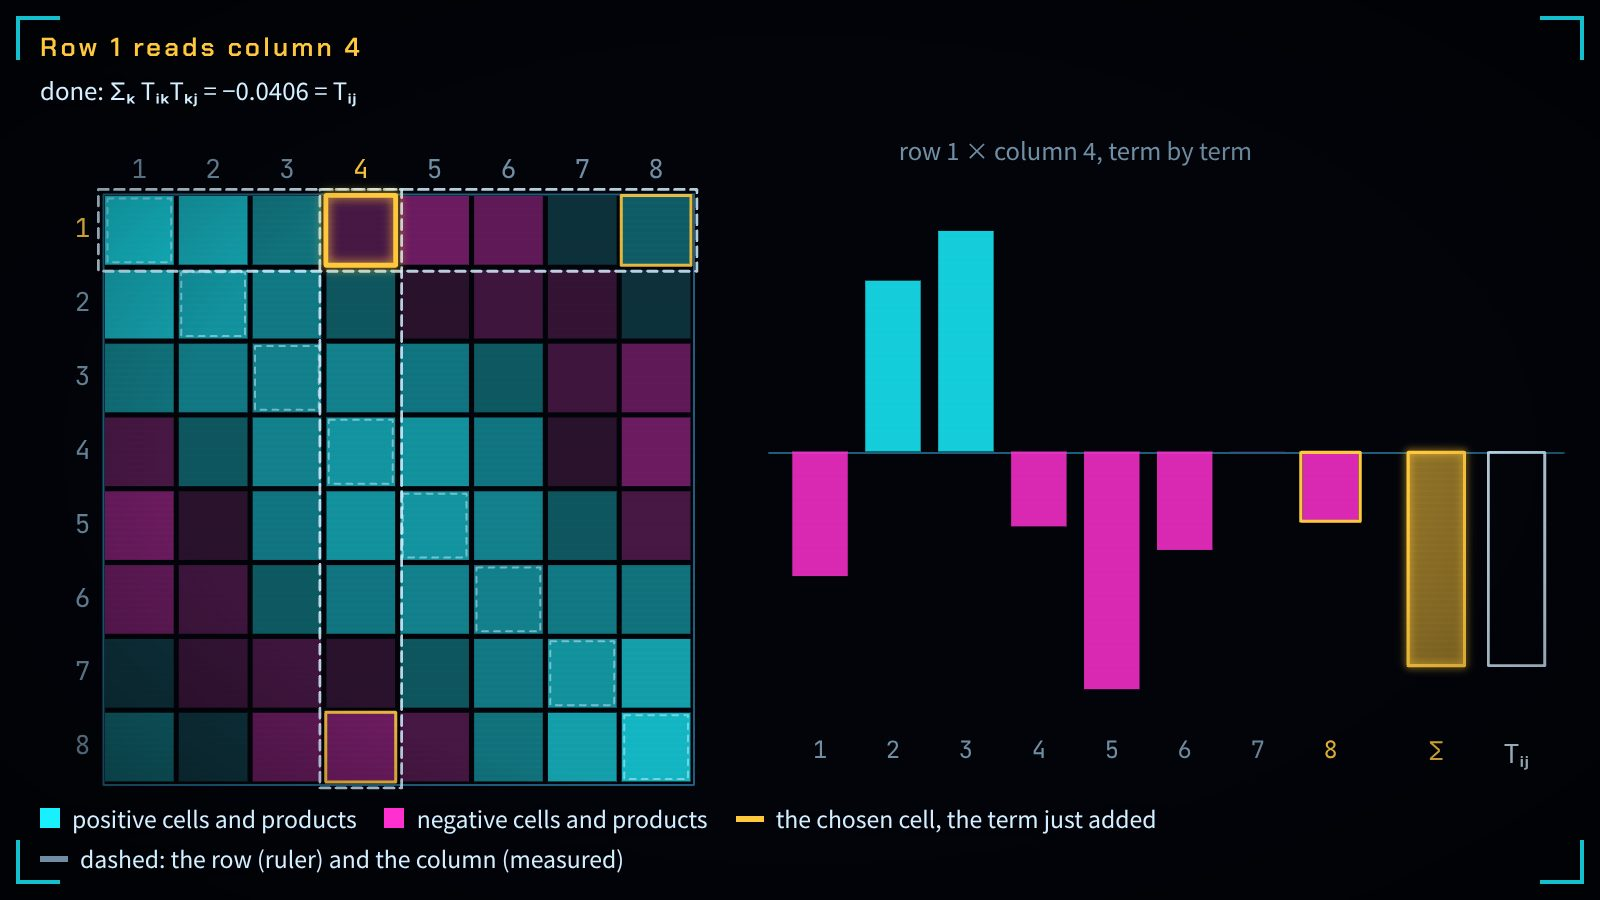
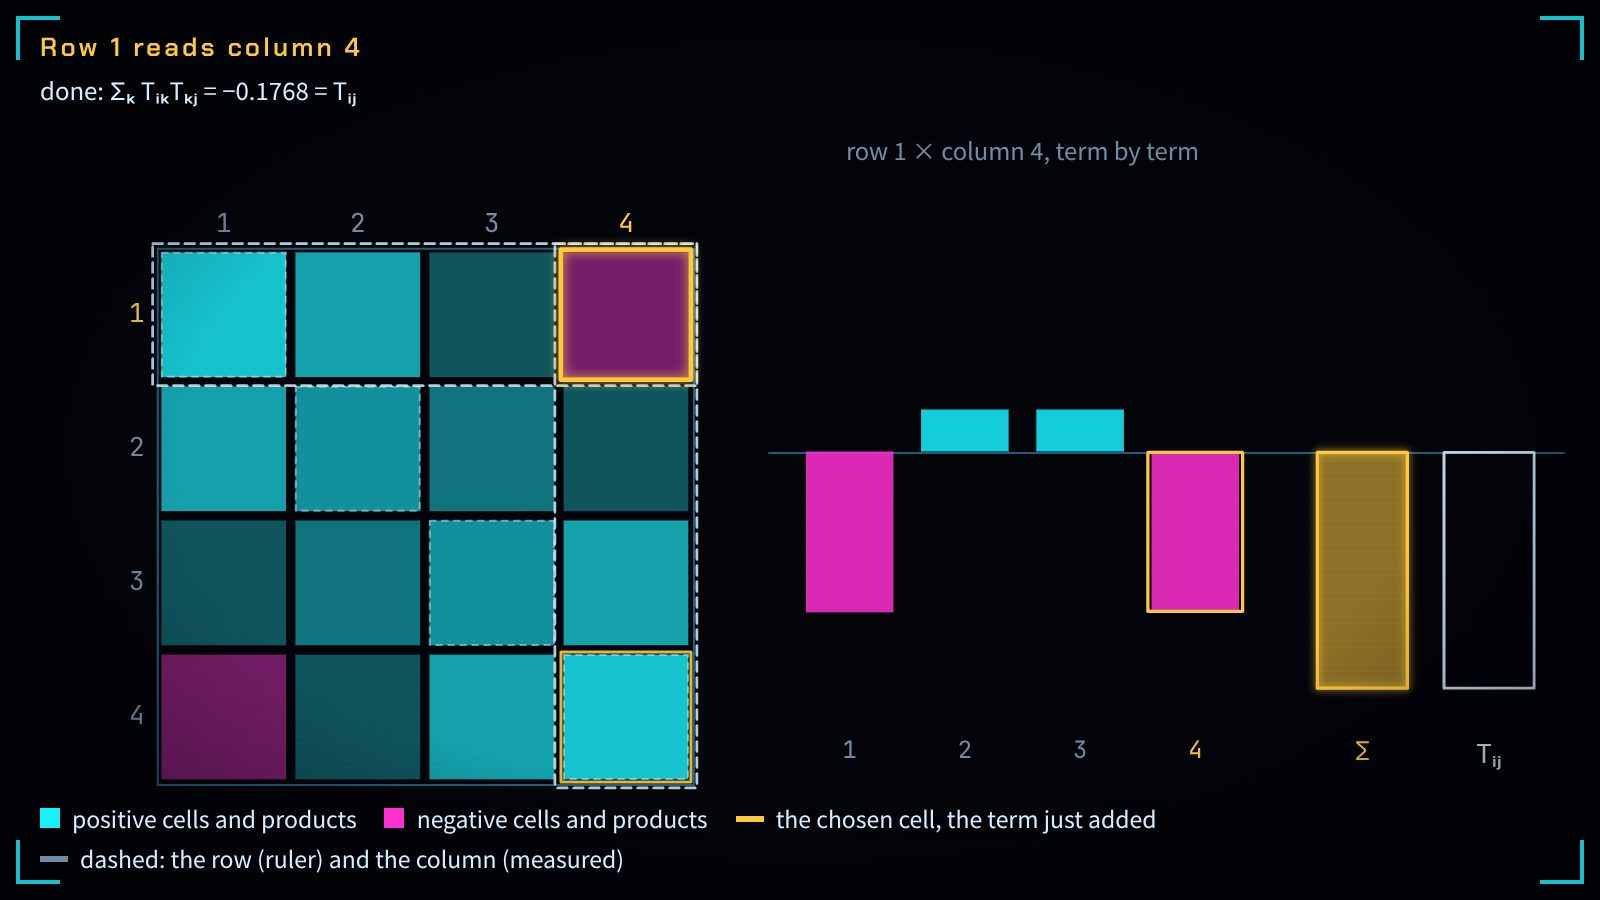
self-referential-table: merge the diagonal card into dual_read and open it on a 4 x 4 table

diff --git a/books/quantum-geometry/viz/self-referential-table/main.js b/books/quantum-geometry/viz/self-referential-table/main.js
@@ -368,8 +368,7 @@
     reset: { scene: 'rank', N: 8, r: 1 },
     expand_table: { scene: 'rank', N: 8, r: 1, play: true, still: 4 },
     full: { scene: 'rank', N: 8, r: 8 },
-    dual_read: { scene: 'read', N: 8, r: 3, cell: [0, 3], play: true },
-    diagonal: { scene: 'read', N: 8, r: 3, cell: [3, 3], play: true },
+    dual_read: { scene: 'read', N: 4, r: 2, cell: [0, 3], play: true },
     heal: { scene: 'heal', N: 8, r: 3, kicks: [{ i: 1, j: 4, eps: 0.3 }], play: true },
     orthogonal_zero: { scene: 'perp', N: 8, r: 3, play: true }
   };
@@ -377,8 +376,7 @@
     reset: ['清空到一行：只写进常值向量，T 的每一格都是 1/8，八个对角格加起来是 1。下面八个地址槽只占了一个。', 'Cleared to one row: only the constant vector is written in, every cell of T is 1/8, and the eight diagonal cells add up to 1. Of the eight address slots below, one is taken.'],
     expand_table: ['一行一行写进两两正交的余弦向量：每多一行，对角格的和（琥珀色的框）就多 1，地址槽多占一个；条带里的幂等误差始终贴在机器精度上。', 'Orthogonal cosine vectors are written in one row at a time: each new row adds 1 to the sum of the diagonal (the amber frame) and takes one more address slot; the idempotency error in the strip stays at machine precision.'],
     full: ['r = N = 8：八个地址全被占满，表成了单位阵，青色只剩对角线。再也找不出与这八行都正交的第九个方向。', 'r = N = 8: all eight addresses are taken, the table is the identity, and cyan is left only on the diagonal. There is no ninth direction orthogonal to all eight rows.'],
-    dual_read: ['第 1 行（横读，尺子）去读第 4 列（竖读，被量的状态）：八个乘积 T₁ₖTₖ₄ 有青有品红，逐项加起来（琥珀色的条）正好等于这一格 T₁₄（空心框）。', 'Row 1 (read across, the ruler) reads column 4 (read down, the state being measured): the eight products T₁ₖTₖ₄, some cyan, some magenta, add up term by term (the amber bar) to exactly this cell T₁₄ (the hollow frame).'],
-    diagonal: ['对角格 (4, 4)：第 4 行与第 4 列是同一串数，八个乘积都是平方，全是青色；加起来回到 T₄₄ 本身。这只是 T² = T 落在对角格上的一项，不是 Lawvere 对角线定理（无不动点时对角线逃出列表）的演示。', 'The diagonal cell (4, 4): row 4 and column 4 are the same numbers, so the eight products are squares, all cyan; they add up to T₄₄ itself. This is only T² = T read on a diagonal cell, not a picture of Lawvere’s diagonal theorem (the diagonal escaping every listing when there is no fixed point).'],
+    dual_read: ['第 1 行（横读，尺子）去读第 4 列（竖读，被量的状态）：四个乘积 T₁ₖTₖ₄ 有青有品红，逐项加起来（琥珀色的条）正好等于这一格 T₁₄（空心框）。点一个对角格，第 k 行与第 k 列是同一串数，乘积全是平方、全是青色，加起来回到 Tₖₖ 本身：这只是 T² = T 落在对角格上的一项，不是 Lawvere 对角线定理（无不动点时对角线逃出列表）的演示。', 'Row 1 (read across, the ruler) reads column 4 (read down, the state being measured): the four products T₁ₖTₖ₄, some cyan, some magenta, add up term by term (the amber bar) to exactly this cell T₁₄ (the hollow frame). Click a diagonal cell: row k and column k are the same numbers, so every product is a square, all cyan, and they add up to Tₖₖ itself. This is only T² = T read on a diagonal cell, not a picture of Lawvere’s diagonal theorem (the diagonal escaping every listing when there is no fixed point).'],
     heal: ['往 (2, 5) 与 (5, 2) 各加 0.3，表不再幂等。每迭代一步 3T² − 2T³，右边的本征值就向 0 与 1 靠拢，条带里的误差一步比一步小得多，几步就到机器精度。', 'Add 0.3 to (2, 5) and (5, 2) and the table is no longer idempotent. With each step of 3T² − 2T³ the eigenvalues on the right move towards 0 and 1, and the error in the strip drops much faster each step, reaching machine precision in a few steps.'],
     orthogonal_zero: ['ψ 从表里的常值向量 v₁ 转向与表里每一行都正交的 w：读出 Tψ（青色）随 cos θ 缩短，落在正交补里的 sin θ（品红）随之变长；到 90°，读出归零。', 'ψ turns from the constant vector v₁, which is in the table, towards w, which is orthogonal to every row of it: the reading Tψ (cyan) shrinks with cos θ while the part sin θ in the complement (magenta) grows; at 90° the reading is zero.']
   };

diff --git a/books/quantum-geometry/viz/self-referential-table/index.html b/books/quantum-geometry/viz/self-referential-table/index.html
@@ -40,7 +40,6 @@
         <button class="preset" data-preset="expand_table" aria-pressed="false"><span class="code">EXPAND</span><span class="cn zh">扩表：一行一行写进去，迹跟着秩走</span><span class="cn en">Expanding: rows go in one by one, the trace follows the rank</span></button>
         <button class="preset" data-preset="full" aria-pressed="false"><span class="code">FULL · r = N</span><span class="cn zh">写满：N 个地址全占，表成了单位阵</span><span class="cn en">Full: all N addresses taken, the table is the identity</span></button>
         <button class="preset" data-preset="dual_read" aria-pressed="false"><span class="code">ROW · COL</span><span class="cn zh">第 i 行读第 j 列，读回 Tᵢⱼ</span><span class="cn en">Row i reads column j and gets Tᵢⱼ back</span></button>
-        <button class="preset" data-preset="diagonal" aria-pressed="false"><span class="code">DIAGONAL</span><span class="cn zh">对角格自己读自己</span><span class="cn en">A diagonal cell reads itself</span></button>
         <button class="preset" data-preset="heal" aria-pressed="false"><span class="code">3T² − 2T³</span><span class="cn zh">碰歪一格，几步回到幂等</span><span class="cn en">Knock a cell, a few steps back to idempotent</span></button>
         <button class="preset" data-preset="orthogonal_zero" aria-pressed="false"><span class="code">90°</span><span class="cn zh">转到正交补：读出归零</span><span class="cn en">Turn into the complement: the reading goes to zero</span></button>
       </div>
